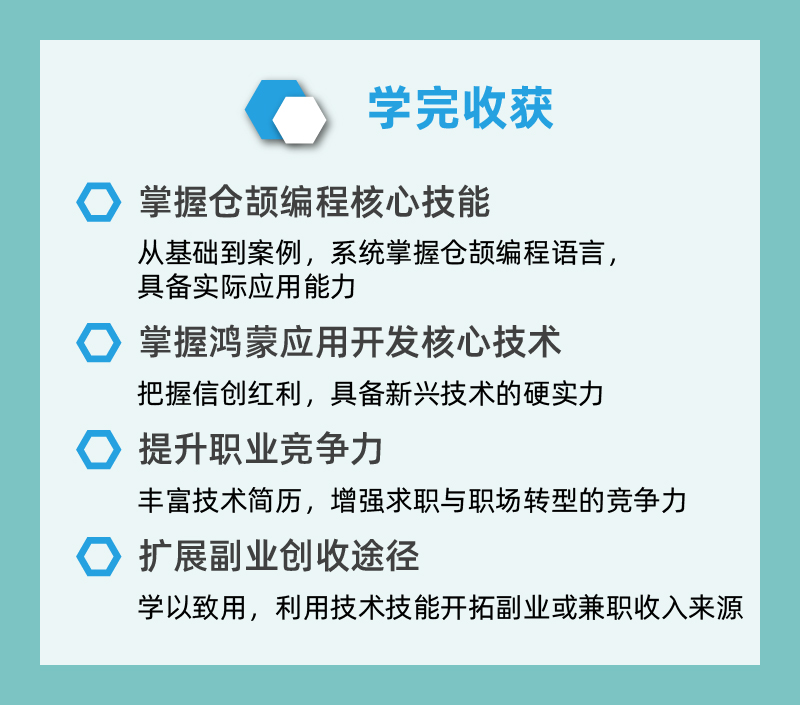
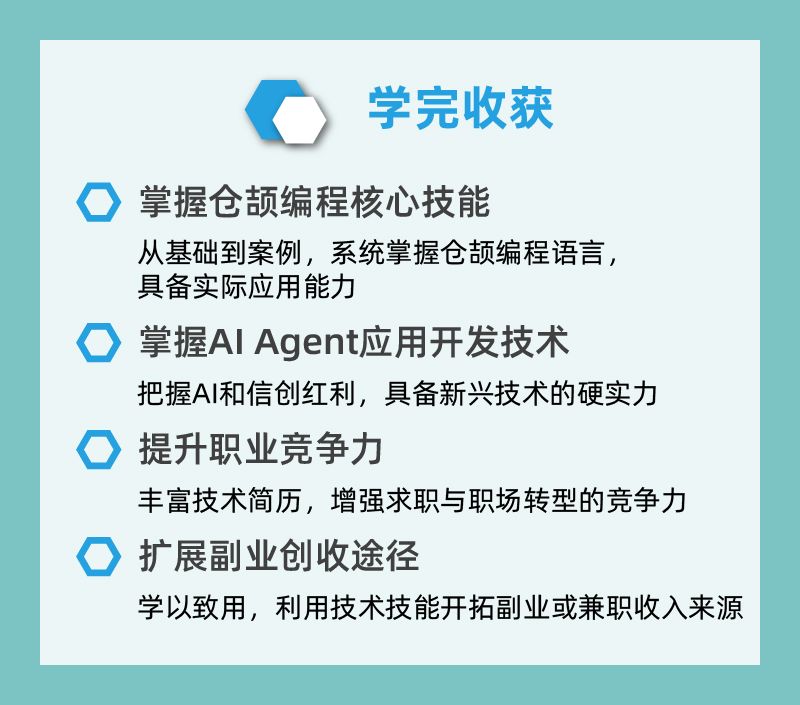
仓颉-Agent-鸿蒙

Changed region(s): [[0.2188, 0.4369, 0.8125, 0.5929]]

diff --git a/profile/README.md b/profile/README.md
@@ -8,17 +8,17 @@
 <a href="https://item.jd.com/14670040.html" target="_blank">**图书链接：《图解仓颉编程：高级篇》**</a><br>
 <a href="https://item.jd.com/14200757.html" target="_blank">**图书链接：《仓颉编程快速上手》**</a><br><br>
 
-# 视频课程（仓颉+鸿蒙）
-**《图解仓颉编程视频课程》从零开始教，以图解和动画的形式，超细致讲解仓颉编程语言，并通过10个典型的鸿蒙App案例，手把手教你使用仓颉开发鸿蒙App，助你快速掌握仓颉和鸿蒙的核心开发技能！** <br><br>
+# 视频课程
+**《图解仓颉编程视频课程1》从零开始教，以图解和动画的形式，超细致讲解仓颉编程语言，并通过典型的项目案例"旅行助手"，手把手教你使用仓颉开发Agent（智能体），助你快速掌握仓颉和Agent的核心开发技能！** <br><br>
 <img src="pics/视频课程/1-课程封面.jpg" width="580"> <br>
-<img src="pics/视频课程/2-图表展示.jpg" width="580"> <br>
-<img src="pics/视频课程/3-案例展示-1.jpg" width="580"> <br>
-<img src="pics/视频课程/3-案例展示-2.jpg" width="580"> <br>
-<img src="pics/视频课程/4-课程特色.jpg" width="580"> <br>
+<img src="pics/视频课程/2-适用人群.jpg" width="580"> <br>
+<img src="pics/视频课程/3-课程特色.jpg" width="580"> <br>
+<img src="pics/视频课程/4-图表展示.jpg" width="580"> <br>
 <img src="pics/视频课程/5-学完收获.jpg" width="580"> <br>
-<img src="pics/视频课程/6-适用人群.jpg" width="580"> <br>
+<img src="pics/视频课程/6-教学团队.jpg" width="580"> <br>
 <img src="pics/视频课程/7-常见问题.jpg" width="580"> <br>
-<img src="pics/视频课程/8-教学团队.jpg" width="580"> <br><br>
+<img src="pics/视频课程/8-1-课程内容.jpg" width="580"> <br>
+<img src="pics/视频课程/8-2-课程内容.jpg" width="580"> <br><br>
 
 # 交个朋友
 <img src="pics/交个朋友/张荣超老师微信.png" width="365">
